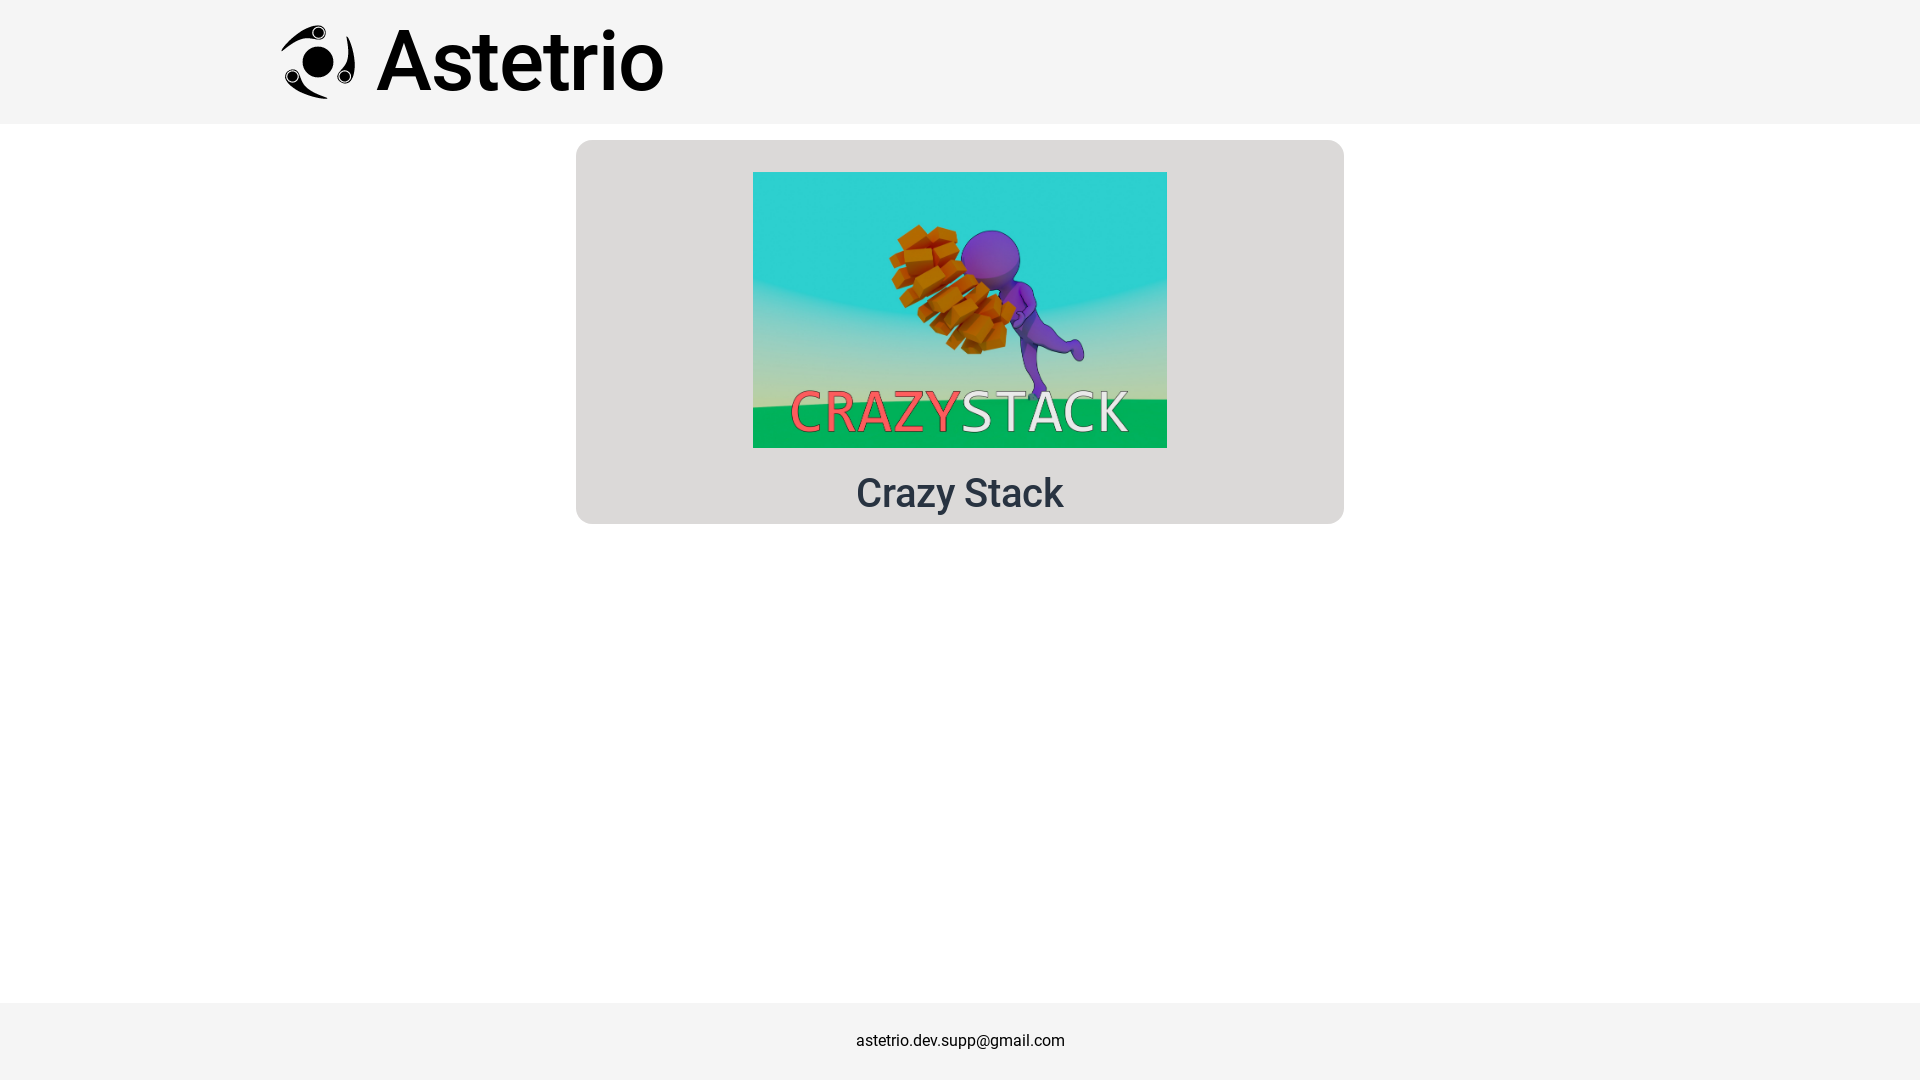
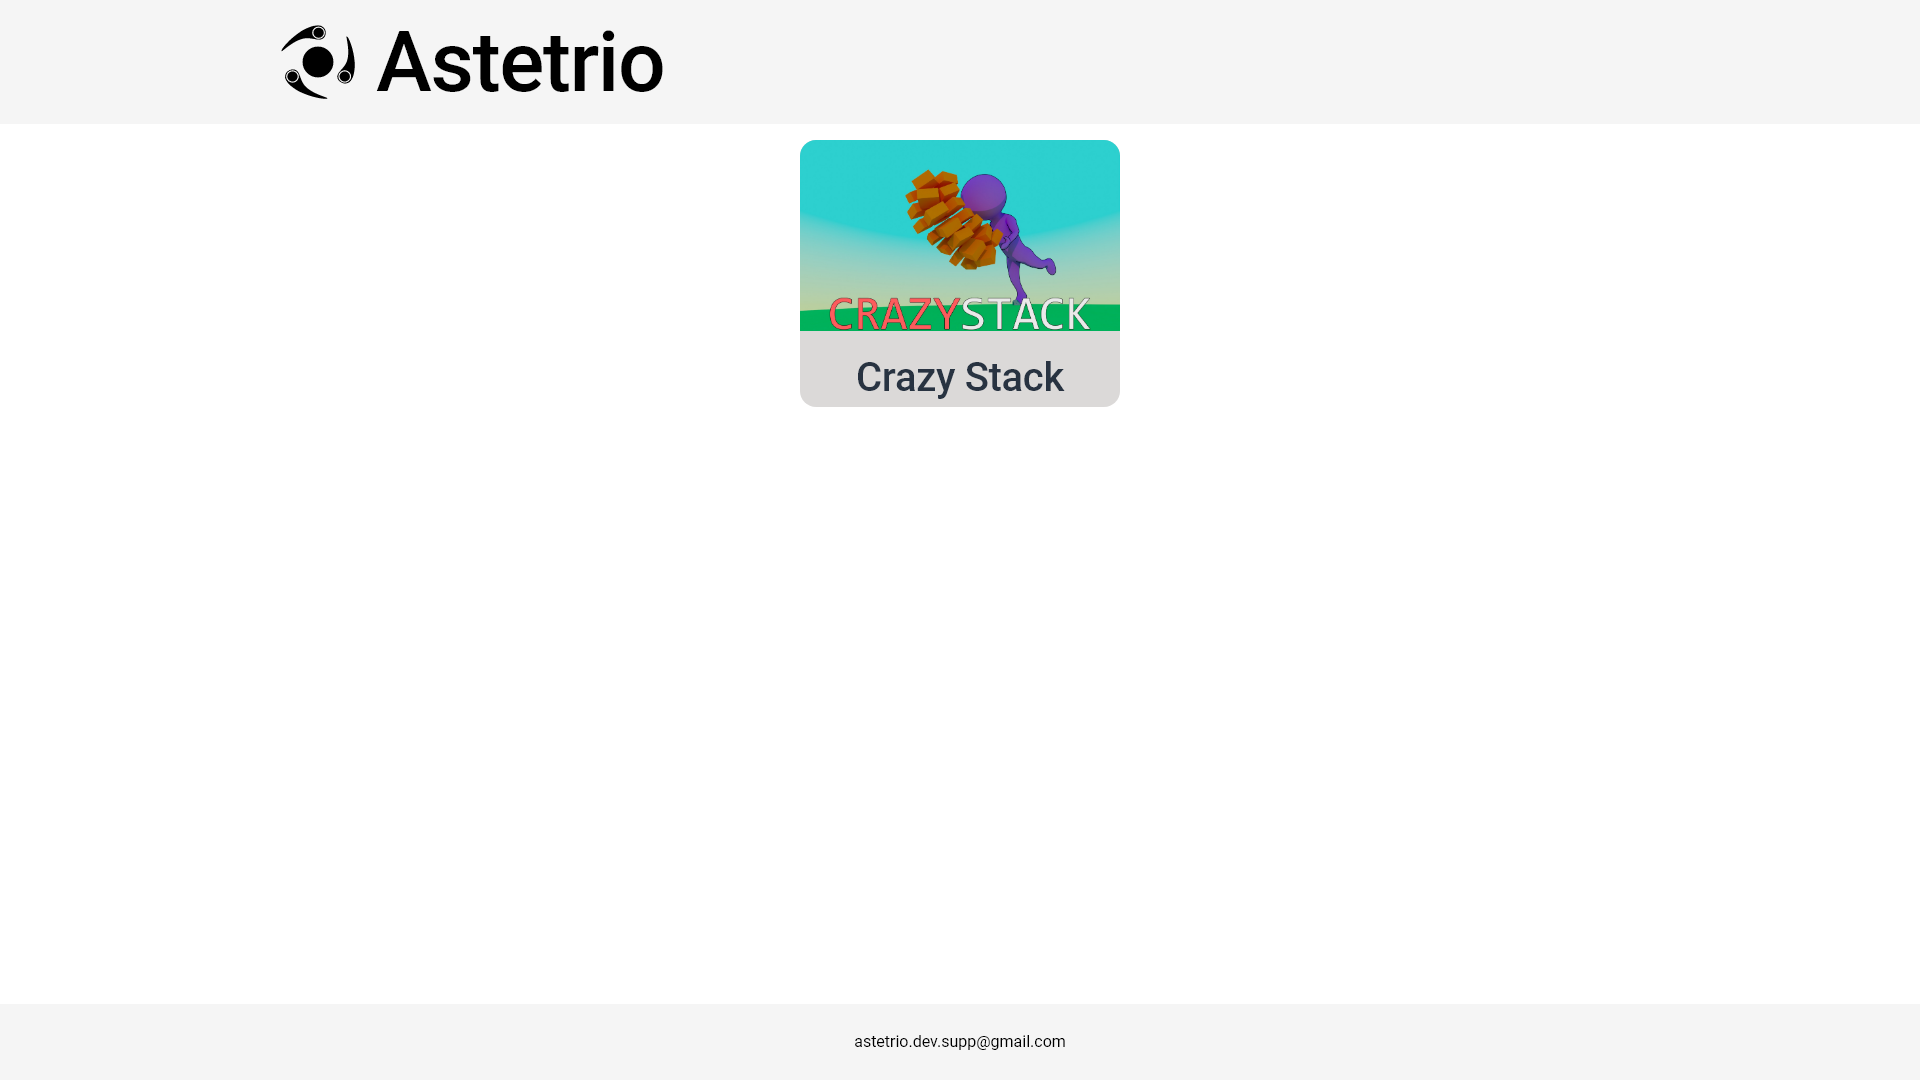
Added project page

Changed region(s): [[0.2812, 0.1222, 0.7188, 0.4889], [0.2188, 0.0306, 0.3438, 0.0917], [0.4375, 0.9472, 0.5625, 0.9778]]

diff --git a/quasar.config.js b/quasar.config.js
@@ -18,6 +18,8 @@ const PrerenderSPAPlugin = require('prerender-spa-plugin-next');
 const PuppeteerRenderer = require('./utils/custom-puppeteer-renderer');
 const { PurgeCSSPlugin } = require('purgecss-webpack-plugin');
 
+const devPort = 8080;
+
 module.exports = configure(function (ctx) {
   return {
     // https://v2.quasar.dev/quasar-cli-webpack/supporting-ts
@@ -64,7 +66,7 @@ module.exports = configure(function (ctx) {
       vueLoaderOptions: {
         transformAssetUrls: {
           tags: {
-            "project-item": "thumbnail",
+            'project-item': 'thumbnail',
           },
         },
       },
@@ -129,7 +131,7 @@ module.exports = configure(function (ctx) {
               },
             }),
             postProcess(renderedRoute) {
-              renderedRoute.html = renderedRoute.html.replaceAll('http://localhost:8000', 'https://goldsemi.uz');
+              renderedRoute.html = renderedRoute.html.replaceAll('http://localhost:8000', cfg.mode === 'development' ? `http://localhost:${devPort}` : 'https://astetrio.github.io');
               renderedRoute.html = renderedRoute.html.replaceAll(/(<link href="\/css\/vendor\..+?\.css") rel="stylesheet"(>)/gm, '$1 rel="preload" as="style" onload="this.onload=null;this.rel=\'stylesheet\'"$2');
               renderedRoute.html = renderedRoute.html.replaceAll(/(<script src="\/js\/vendor\..+\.js")(><\/script>)/gm, '$1 defer$2');
 
@@ -149,7 +151,7 @@ module.exports = configure(function (ctx) {
       server: {
         type: 'http',
       },
-      port: 8080,
+      port: devPort,
       open: false, // opens browser window automatically
     },
 

diff --git a/src/pages/Index.vue b/src/pages/Index.vue
@@ -2,7 +2,7 @@
   <q-page class="main">
     <section class="column text-black items-center projects">
       <div class="col q-px-lg justify-center container q-gutter-y-lg projects_content">
-        <project-item thumbnail="~assets/crazy-stack.jpg" title="Crazy Stack" />
+        <project-item thumbnail="~assets/crazy-stack.jpg" title="Crazy Stack" guid="aboba" />
         <!--<project-item thumbnail="~assets/crazy-stack.jpg" title="Crazy Stack" />
         <project-item thumbnail="~assets/crazy-stack.jpg" title="Crazy Stack" />
         <project-item thumbnail="~assets/crazy-stack.jpg" title="Crazy Stack" />

diff --git a/src/components/ProjectItem.vue b/src/components/ProjectItem.vue
@@ -3,7 +3,9 @@
     <div class="col q-mb-lg full-width full-height img">
       <q-intersection once class="inter">
         <!--<q-img :src="thumbnail" :alt="title" width="368px" height="243.5px" />-->
-        <img :src="thumbnail" :alt="title" />
+        <router-link :to="`/project/${guid}`">
+          <img :src="thumbnail" :alt="title" />
+        </router-link>
       </q-intersection>
     </div>
     <h2 class="col-auto">{{ title }}</h2>
@@ -19,6 +21,7 @@ export default defineComponent({
   props: {
     thumbnail: String,
     title: String,
+    guid: String,
     description: Number,
   },
 });

diff --git a/src/router/routes.ts b/src/router/routes.ts
@@ -4,7 +4,10 @@ const routes: RouteRecordRaw[] = [
   {
     path: '/',
     component: () => import('layouts/MainLayout.vue'),
-    children: [{ path: '', component: () => import('src/pages/Index.vue') }],
+    children: [
+      { path: '', component: () => import('src/pages/Index.vue') },
+      { path: 'project/:guid', component: () => import('src/pages/Project.vue') },
+    ],
   },
 
   // Always leave this as last one,

diff --git a/src/pages/Project.vue b/src/pages/Project.vue
@@ -1,0 +1,16 @@
+<template>
+  <q-page class="project">
+
+  </q-page>
+</template>
+
+<script lang="ts">
+import { defineComponent } from 'vue';
+
+export default defineComponent({
+  name: 'ProjectPage',
+});
+</script>
+
+<style lang="scss" scoped>
+</style>
